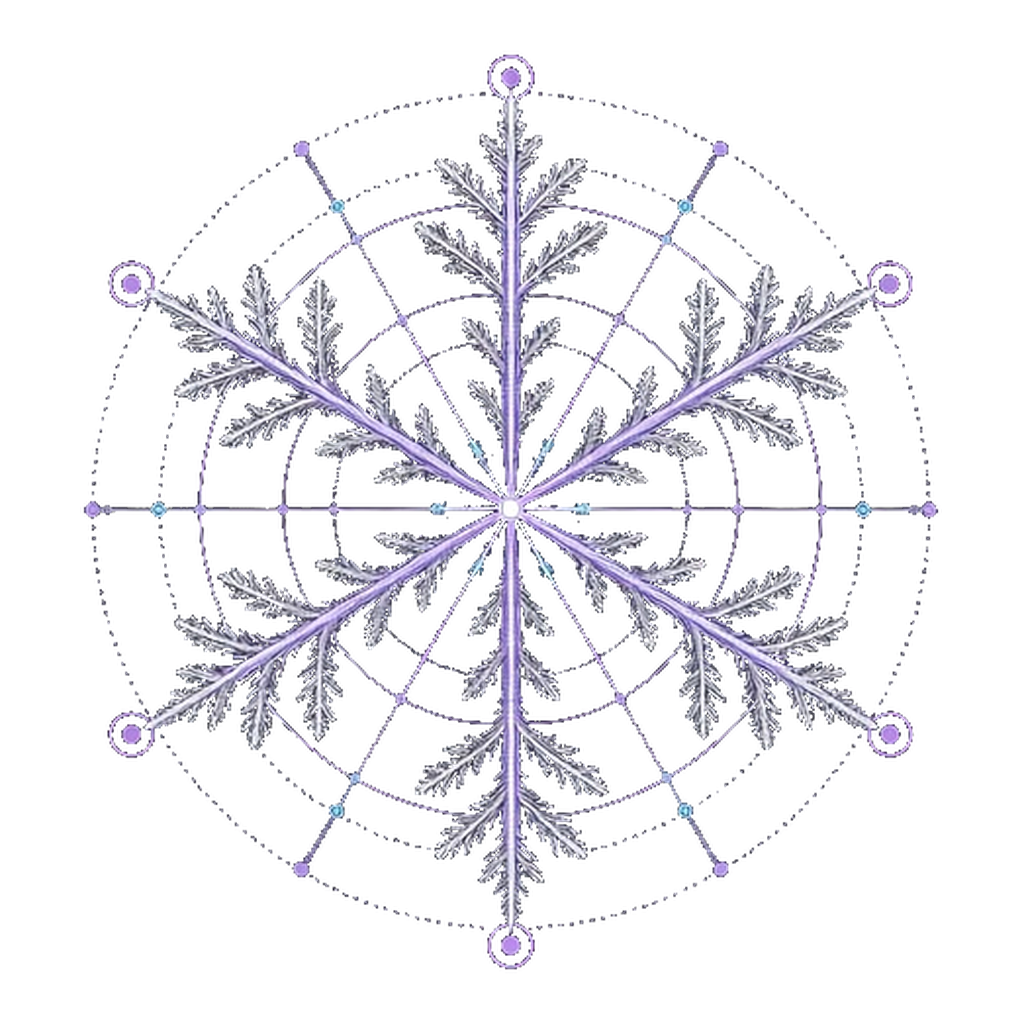
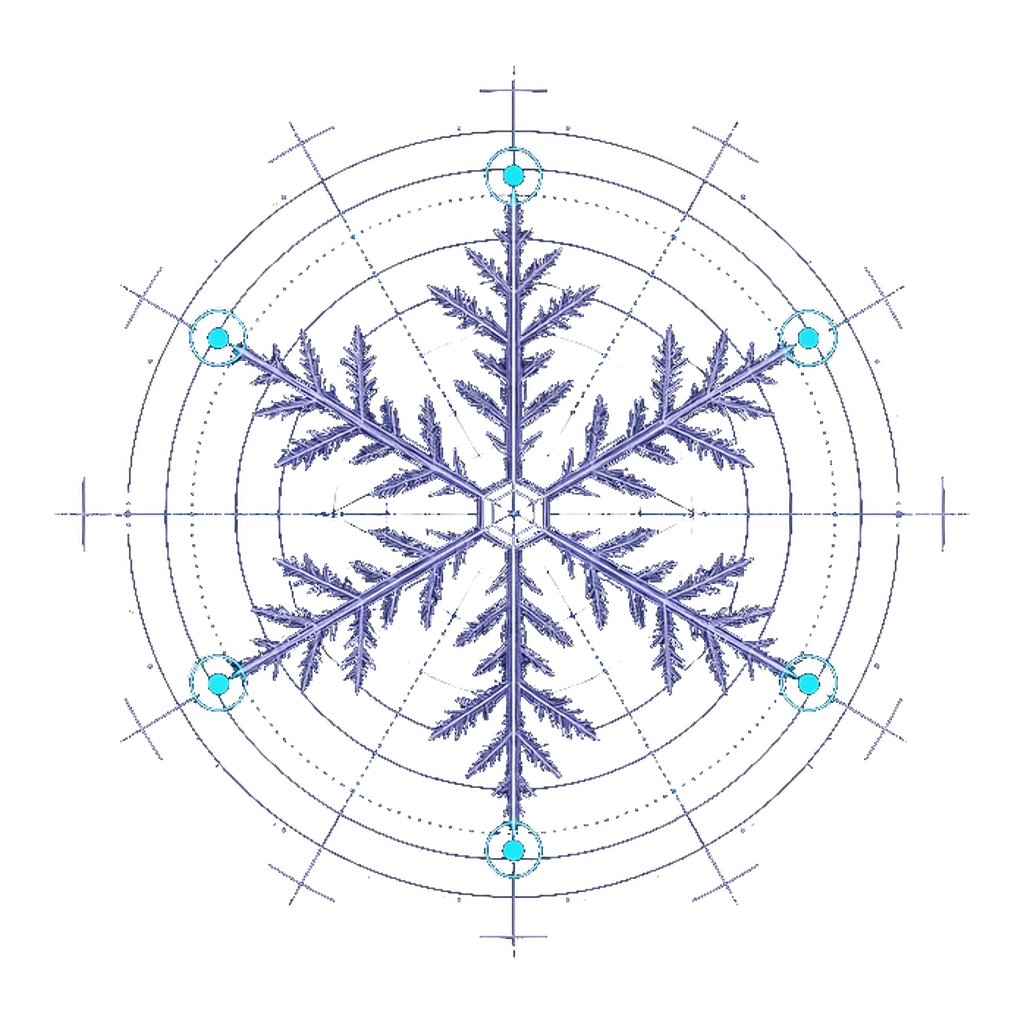
Swap hero to v6 line-art mark with cache bust

diff --git a/demo.html b/demo.html
@@ -6,7 +6,7 @@
   <title>Soulflake Demo — Taste → Reveal</title>
   <meta name="description" content="Pick 8–12 things that feel like you, then see a sample Soul Flake reveal." />
   <meta name="theme-color" content="#070B14" />
-  <link rel="icon" type="image/png" href="assets/favicon.png" />
+  <link rel="icon" type="image/png" href="assets/favicon.png?v=6" />
   <link rel="preconnect" href="https://fonts.googleapis.com" />
   <link rel="preconnect" href="https://fonts.gstatic.com" crossorigin />
   <link href="https://fonts.googleapis.com/css2?family=Instrument+Serif:ital@0;1&family=Inter:wght@400;500;600;700;800&display=swap" rel="stylesheet" />
@@ -58,7 +58,7 @@
       <div class="demo-card">
         <div class="badge-demo">Demo / Sample</div>
         <div class="reveal-layout">
-          <img class="reveal-mark" src="assets/soulflake-mark.png" alt="Soulflake mark" width="140" height="140" />
+          <img class="reveal-mark" src="assets/soulflake-mark-v6.png?v=6" alt="Soulflake mark" width="140" height="140" />
           <div>
             <p class="eyebrow" style="margin-bottom:0.35rem;">Your sample Soul Flake</p>
             <h2 class="reveal-title flake-title">The Strategic Guardian</h2>

diff --git a/index.html b/index.html
@@ -6,7 +6,7 @@
   <title>Soulflake — Meet your Soul Flake</title>
   <meta name="description" content="A profile so precise it feels invasive — and clear enough to act on. Prototype demo by Justin Terranova." />
   <meta name="theme-color" content="#070B14" />
-  <link rel="icon" type="image/png" href="assets/favicon.png" />
+  <link rel="icon" type="image/png" href="assets/favicon.png?v=6" />
   <link rel="preconnect" href="https://fonts.googleapis.com" />
   <link rel="preconnect" href="https://fonts.gstatic.com" crossorigin />
   <link href="https://fonts.googleapis.com/css2?family=Instrument+Serif:ital@0;1&family=Inter:wght@400;500;600;700;800&display=swap" rel="stylesheet" />
@@ -52,7 +52,7 @@
           <span class="b">Bond</span>
           <span class="v">Values</span>
         </div>
-        <img class="mark" src="assets/soulflake-mark.png" alt="Soul Flake crystal" width="600" height="600" />
+        <img class="mark" src="assets/soulflake-mark-v6.png?v=6" alt="Soul Flake crystal" width="600" height="600" />
       </div>
     </section>
 

diff --git a/styles.css b/styles.css
@@ -246,7 +246,7 @@ button { font-family: inherit; cursor: pointer; }
 }
 .mark {
   background: transparent;
-  max-width: min(280px, 70vw);
+  max-width: min(240px, 70vw);
   width: 100%;
   height: auto;
   aspect-ratio: 1 / 1;
@@ -619,7 +619,7 @@ section { padding: 3.5rem 0; }
     box-shadow: none;
   }
   .mark {
-    max-width: min(280px, 70vw);
+    max-width: min(240px, 70vw);
     background: transparent;
     border: 0;
     border-radius: 0;
